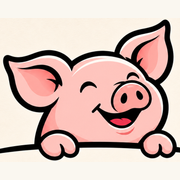
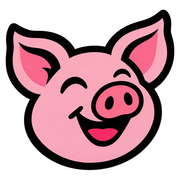
updations

diff --git a/src/app/page.tsx b/src/app/page.tsx
@@ -1,4 +1,5 @@
-import {ArrowDown,ArrowUpRight,ArrowRight,MapPin,Phone,MessageCircle,PiggyBank,Trees,MessagesSquare} from 'lucide-react';
+import {WhatsAppIcon} from '@/components/WhatsAppIcon';
+import {ArrowDown,ArrowUpRight,ArrowRight,MapPin,Phone,PiggyBank,Trees,MessagesSquare} from 'lucide-react';
 function Instagram(){return <svg viewBox="0 0 24 24" fill="none" stroke="currentColor" strokeWidth="1.6" aria-hidden="true"><rect x="3" y="3" width="18" height="18" rx="5"/><circle cx="12" cy="12" r="4"/><circle cx="17.5" cy="6.5" r=".8"/></svg>;}
 function Facebook(){return <svg viewBox="0 0 24 24" fill="none" stroke="currentColor" strokeWidth="1.6" aria-hidden="true"><path d="M15 3h-3a4 4 0 0 0-4 4v14m-3-10h11M8 11h5V7h3"/></svg>;}
 import {Navigation,ContactActions,Brand} from '@/components/Navigation';
@@ -7,7 +8,7 @@ import {Picture,type ImageName} from '@/components/Picture';
 import {Gallery} from '@/components/Gallery';
 import {FAQ} from '@/components/FAQ';
 import {navigation,site,SITE_URL} from '@/config/site';
-function WhatsApp({className='button'}:{className?:string}){return <a className={className} href={site.whatsapp} target="_blank" rel="noopener noreferrer"><MessageCircle size={19}/>Chat on WhatsApp<ArrowUpRight size={18}/></a>;}
+function WhatsApp({className='button'}:{className?:string}){return <a className={`${className} whatsapp-button`} href={site.whatsapp} target="_blank" rel="noopener noreferrer"><WhatsAppIcon size={19}/>Chat on WhatsApp<ArrowUpRight size={18}/></a>;}
 const farmBlocks=[{title:'Our Pigs',name:'farm-piglets',icon:PiggyBank,copy:'Pigs are at the heart of PorkHolic. To learn more about the pigs on our farm, speak with our team directly.'},{title:'Our Farm Environment',name:'farm-environment',icon:Trees,copy:'Our pig farm is based in Kombai, in the Theni region of Tamil Nadu. Connect with us to find out more about the farm and its setting.'},{title:'Farm Enquiries',name:'farm-detail',icon:MessagesSquare,copy:'Curious about PorkHolic or have a farm-related question? Call or message our team to start a conversation.'}] as const;
 export default function Home(){const socials=[site.instagram,site.facebook].filter(Boolean);const jsonLd={'@context':'https://schema.org','@type':'LocalBusiness',name:'PorkHolic',url:SITE_URL,telephone:[site.phone,site.phoneSecondary],address:{'@type':'PostalAddress',addressLocality:'Kombai',addressRegion:'Tamil Nadu',addressCountry:'IN'},...(socials.length?{sameAs:socials}:{})};return <><a className="skip-link" href="#main">Skip to content</a><Navigation/><main id="main"><section id="home" className="hero"><Picture name="hero-farm" alt="rural pig farm with coconut palms and distant mountain foothills" priority sizes="100vw" className="hero-image"/><div className="hero-shade"/><div className="container hero-content"><Reveal><p className="eyebrow light"><span/>WELCOME TO PORKHOLIC</p><h1>Rooted in Farming.<br/><em>Raised with Purpose.</em></h1><p className="hero-description">Discover PorkHolic, a pig farm based in<br className="desktop-break"/> Kombai, Theni, Tamil Nadu.</p><div className="button-row"><a href="#farm" className="button">Explore Our Farm<ArrowUpRight size={19}/></a><a href="#contact" className="button outline">Contact Our Farm<ArrowRight size={18}/></a></div></Reveal></div><div className="container hero-bottom"><a href="#about" className="scroll-cue"><span className="scroll-icon"><ArrowDown size={17}/></span> A little closer to farm life</a><span className="hero-place"><MapPin size={15}/> Kombai, Theni · Tamil Nadu</span></div></section>
 <section id="about" className="section about"><div className="container about-grid"><Reveal className="about-copy"><p className="eyebrow"><span/> A FARM. A PLACE. A PURPOSE.</p><h2>A Passion for<br/><em>Pig Farming.</em></h2><div className="short-rule"/><p>PorkHolic is a pig farm in Kombai, Theni, Tamil Nadu. Farming is at the centre of who we are, and this is a place to get to know our farm.</p><p>We welcome your questions about PorkHolic. For more information about the farm, reach out to our team by phone or WhatsApp.</p><a href="#contact" className="text-link">Get to know us<ArrowUpRight size={19}/></a></Reveal><Reveal className="about-visual" delay={.08}><Picture name="about-farm" alt="pink pigs in a naturally lit open-sided farm shelter" className="about-main"/><Picture name="farm-detail" alt="close-up of a pink pig beside a grain trough" className="about-detail"/><span className="image-stamp">PORKHOLIC<span>Rooted in<br/>Kombai, Theni.</span></span></Reveal></div></section>
@@ -16,5 +17,5 @@ export default function Home(){const socials=[site.instagram,site.facebook].filt
 <section id="gallery" className="section gallery"><div className="container"><Reveal className="section-heading"><div><p className="eyebrow"><span/> A DIFFERENT PERSPECTIVE</p><h2>Farm life,<br/><em>in focus.</em></h2></div><div><p>A space for glimpses of PorkHolic.</p></div></Reveal><Reveal><Gallery/></Reveal><div className="gallery-foot"><span>THE PORKHOLIC GALLERY</span><span>Take a closer look <ArrowUpRight size={16}/></span></div></div></section>
 <FAQ/>
 <section className="enquiry section"><div className="container"><Reveal><p className="eyebrow light"><span/> LET’S START A CONVERSATION</p><h2>Let&apos;s Connect<br/><em>with Our Farm.</em></h2><p>Have a question about PorkHolic?<br/>Get in touch with our team.</p><div className="button-row"><WhatsApp className="button ivory"/><a className="button outline" href={`tel:${site.phone}`}><Phone size={18}/>Call Now</a></div><div className="enquiry-numbers"><a href={`tel:${site.phone}`}>{site.phones[0]}</a><span aria-hidden="true">/</span><a href={`tel:${site.phoneSecondary}`}>{site.phones[1]}</a></div></Reveal><div className="enquiry-art" aria-hidden="true"><img src="/images/logo-transparent.webp" alt="" width="280" height="224" loading="lazy"/><span>PIG FARM<br/>KOMBAI, THENI</span></div></div></section>
-<section id="contact" className="section contact"><div className="container contact-grid"><Reveal><p className="eyebrow"><span/> WE’RE HERE TO CONNECT</p><h2>Find us in<br/><em>Kombai.</em></h2><p className="contact-intro">PorkHolic Pig Farm, Kombai,<br/>Theni, Tamil Nadu, India</p><div className="button-row"><WhatsApp/><a href={`tel:${site.phone}`} className="button outline dark-outline"><Phone size={18}/>Call the farm</a></div></Reveal><Reveal className="contact-details" delay={.08}><div className="contact-row"><Phone/><div><h3>Give us a call</h3><a href={`tel:${site.phone}`}>{site.phones[0]}</a><a href={`tel:${site.phoneSecondary}`}>{site.phones[1]}</a></div><ArrowUpRight size={19}/></div><div className="contact-row"><MessageCircle/><div><h3>Say hello on WhatsApp</h3><a href={site.whatsapp} target="_blank" rel="noopener noreferrer">Message our team</a></div><ArrowUpRight size={19}/></div><div className="contact-row"><MapPin/><div><h3>Kombai, Theni</h3><a href={site.maps} target="_blank" rel="noopener noreferrer">View Location</a><small>Area search, not an exact farm pin</small></div><ArrowUpRight size={19}/></div></Reveal></div></section></main>
-<footer className="footer"><div className="container footer-grid"><div><a href="#home" aria-label="PorkHolic home"><Brand/></a><p>A pig farm in Kombai, Theni.<br/>Rooted in farming. Raised with purpose.</p><div className="socials">{site.instagram&&<a href={site.instagram} aria-label="Instagram" target="_blank" rel="noopener noreferrer"><Instagram/></a>}{site.facebook&&<a href={site.facebook} aria-label="Facebook" target="_blank" rel="noopener noreferrer"><Facebook/></a>}<a href={site.whatsapp} aria-label="WhatsApp" target="_blank" rel="noopener noreferrer"><MessageCircle/></a><a href={`tel:${site.phone}`} aria-label="Call PorkHolic"><Phone/></a></div></div><nav aria-label="Footer navigation"><h3>Explore</h3>{navigation.map(([id,label])=><a key={id} href={`#${id}`}>{label}</a>)}</nav><div><h3>Visit & connect</h3><p>Kombai, Theni<br/>Tamil Nadu, India</p><a href={`tel:${site.phone}`}>{site.phones[0]}</a><a href={`tel:${site.phoneSecondary}`}>{site.phones[1]}</a></div></div><div className="container footer-bottom"><span>© {new Date().getFullYear()} PorkHolic. All rights reserved.</span><span>PIG FARM · TAMIL NADU, INDIA</span></div></footer><ContactActions/><script type="application/ld+json" dangerouslySetInnerHTML={{__html:JSON.stringify(jsonLd).replace(/</g,'\\u003c')}}/></>;}
+<section id="contact" className="section contact"><div className="container contact-grid"><Reveal><p className="eyebrow"><span/> WE’RE HERE TO CONNECT</p><h2>Find us in<br/><em>Kombai.</em></h2><p className="contact-intro">PorkHolic Pig Farm, Kombai,<br/>Theni, Tamil Nadu, India</p><div className="button-row"><WhatsApp/><a href={`tel:${site.phone}`} className="button outline dark-outline"><Phone size={18}/>Call the farm</a></div></Reveal><Reveal className="contact-details" delay={.08}><div className="contact-row"><Phone/><div><h3>Give us a call</h3><a href={`tel:${site.phone}`}>{site.phones[0]}</a><a href={`tel:${site.phoneSecondary}`}>{site.phones[1]}</a></div><ArrowUpRight size={19}/></div><div className="contact-row"><WhatsAppIcon/><div><h3>Say hello on WhatsApp</h3><a href={site.whatsapp} target="_blank" rel="noopener noreferrer">Message our team</a></div><ArrowUpRight size={19}/></div><div className="contact-row"><MapPin/><div><h3>Kombai, Theni</h3><a href={site.maps} target="_blank" rel="noopener noreferrer">View Location</a></div><ArrowUpRight size={19}/></div></Reveal></div></section></main>
+<footer className="footer"><div className="container footer-grid"><div><a href="#home" aria-label="PorkHolic home"><Brand/></a><p>A pig farm in Kombai, Theni.<br/>Rooted in farming. Raised with purpose.</p><div className="socials">{site.instagram&&<a href={site.instagram} aria-label="Instagram" target="_blank" rel="noopener noreferrer"><Instagram/></a>}{site.facebook&&<a href={site.facebook} aria-label="Facebook" target="_blank" rel="noopener noreferrer"><Facebook/></a>}<a href={site.whatsapp} className="whatsapp-social" aria-label="WhatsApp" target="_blank" rel="noopener noreferrer"><WhatsAppIcon/></a><a href={`tel:${site.phone}`} aria-label="Call PorkHolic"><Phone/></a></div></div><nav aria-label="Footer navigation"><h3>Explore</h3>{navigation.map(([id,label])=><a key={id} href={`#${id}`}>{label}</a>)}</nav><div><h3>Visit & connect</h3><p>Kombai, Theni<br/>Tamil Nadu, India</p><a href={`tel:${site.phone}`}>{site.phones[0]}</a><a href={`tel:${site.phoneSecondary}`}>{site.phones[1]}</a></div></div><div className="container footer-bottom"><span>© {new Date().getFullYear()} PorkHolic. All rights reserved.</span><span>PIG FARM · TAMIL NADU, INDIA</span></div></footer><ContactActions/><script type="application/ld+json" dangerouslySetInnerHTML={{__html:JSON.stringify(jsonLd).replace(/</g,'\\u003c')}}/></>;}

diff --git a/src/components/Navigation.tsx b/src/components/Navigation.tsx
@@ -1,6 +1,7 @@
 'use client';
+import {WhatsAppIcon} from './WhatsAppIcon';
 import {useEffect,useRef,useState} from 'react';
-import {Menu,X,Phone,MessageCircle} from 'lucide-react';
+import {Menu,X,Phone} from 'lucide-react';
 import {navigation,site} from '@/config/site';
 import {trapDialogFocus} from './dialog-focus';
 export function Brand(){return <span className="brand"><img src="/images/logo-transparent.webp" width="180" height="150" alt="PorkHolic Pork Farm" loading="lazy" decoding="async"/><img className="brand-lettering" src="/images/logo-transparent.webp" width="180" height="150" alt="" aria-hidden="true" loading="lazy" decoding="async"/>{['left','middle','right'].map(part=><img key={part} className={`brand-rule brand-rule-${part}`} src="/images/logo-transparent.webp" width="180" height="150" alt="" aria-hidden="true" loading="lazy" decoding="async"/>)}</span>;}
@@ -11,4 +12,4 @@ export function Navigation(){
  const close=()=>{dialog.current?.close();setOpen(false);toggle.current?.focus();};
  return <><header className={`header ${scrolled?'scrolled':''}`}><div className="container nav-inner"><a href="#home" aria-label="PorkHolic home"><Brand/></a><nav aria-label="Main navigation" className="desktop-nav">{navigation.map(([id,label])=><a key={id} href={`#${id}`} aria-current={active===id?'location':undefined}>{label}</a>)}</nav><a href="#contact" className="button nav-cta">Contact <span aria-hidden="true">↗</span></a><button ref={toggle} className="menu-toggle icon-button" aria-label="Open navigation" aria-controls="mobile-menu" aria-expanded={open} onClick={()=>{dialog.current?.showModal();setOpen(true);}}><Menu/></button></div></header><dialog ref={dialog} id="mobile-menu" className="mobile-menu" aria-label="Main navigation" onClose={()=>{setOpen(false);toggle.current?.focus();}} onCancel={close} onKeyDown={trapDialogFocus}><div className="menu-top"><Brand/><button className="icon-button" onClick={close} aria-label="Close navigation"><X/></button></div><nav aria-label="Mobile navigation">{navigation.map(([id,label],i)=><a key={id} href={`#${id}`} style={{animationDelay:`${i*75}ms`}} onClick={close}><span>0{i+1}</span>{label}<span aria-hidden="true">↗</span></a>)}</nav><p>Kombai, Theni<br/>Tamil Nadu, India</p></dialog></>;
 }
-export function ContactActions(){return <aside className="quick-actions" aria-label="Quick contact"><a href={site.whatsapp} target="_blank" rel="noopener noreferrer" className="button whatsapp" aria-label="Chat with PorkHolic on WhatsApp"><MessageCircle size={20}/><span>WhatsApp</span></a><a className="button call" href={`tel:${site.phone}`}><Phone size={18}/><span>Call</span></a></aside>;}
+export function ContactActions(){return <aside className="quick-actions" aria-label="Quick contact"><a href={site.whatsapp} target="_blank" rel="noopener noreferrer" className="button whatsapp" aria-label="Chat with PorkHolic on WhatsApp"><WhatsAppIcon size={20}/><span>WhatsApp</span></a><a className="button call" href={`tel:${site.phone}`}><Phone size={18}/><span>Call</span></a></aside>;}

diff --git a/src/styles/globals.css b/src/styles/globals.css
@@ -101,4 +101,17 @@ html{scroll-padding-top:calc(var(--nav-height) + 16px)}
 .faq-answer{padding:0 72px 24px 55px}
 .faq-answer p{font-size:14px;line-height:1.8}
 @media(max-width:767px){.faq-layout{grid-template-columns:1fr;gap:32px}.faq-intro h2{font-size:38px}.faq-intro>p:not(.eyebrow){margin-top:20px}.faq-item{border-radius:16px}.faq-item summary{min-height:76px;padding:18px 16px;gap:12px}.faq-item h3{font-size:14px}.faq-toggle{width:30px;height:30px}.faq-answer{padding:0 20px 22px 42px}.faq-answer p{font-size:14px}}
+.hero .button-row>.button:first-child{background:#faf0dd;color:#263d2c;border-color:#faf0dd}
+.hero .button-row>.button:first-child:hover{background:#eadcc2;border-color:#eadcc2}
+.whatsapp-icon{flex-shrink:0}
+.button.whatsapp-button,.quick-actions .button.whatsapp,.socials .whatsapp-social{background:#128c46;color:#fff;border-color:#128c46}
+.button.whatsapp-button:hover,.quick-actions .button.whatsapp:hover,.socials .whatsapp-social:hover{background:#0b7037;border-color:#0b7037}
+.faq-intro .whatsapp-link{color:#11763d;border-color:#11763d;gap:10px}
+.contact-row>.whatsapp-icon{color:#128c46}
+@media(max-width:767px){
+ .hero .button-row{display:grid;grid-template-columns:repeat(2,minmax(0,1fr));gap:10px;width:100%;max-width:430px;align-items:stretch}
+ .hero .button-row .button{min-width:0;width:100%;min-height:50px;padding:12px 10px;font-size:11px;gap:6px;justify-content:center;white-space:nowrap}
+ .hero .button-row .button svg{width:15px;height:15px;flex-shrink:0}
+}
+@media(max-width:359px){.hero .button-row{gap:8px}.hero .button-row .button{font-size:10px;padding-inline:8px;gap:4px}.hero .button-row .button svg{width:13px;height:13px}}
 @media(prefers-reduced-motion:reduce){html{scroll-behavior:auto}*,*:before,*:after{animation:none!important;transition:none!important}.immersive>.picture{transform:none!important}}

diff --git a/src/components/WhatsAppIcon.tsx b/src/components/WhatsAppIcon.tsx
@@ -1,0 +1,3 @@
+export function WhatsAppIcon({size=20,className=''}:{size?:number;className?:string}) {
+ return <svg className={`whatsapp-icon ${className}`} width={size} height={size} viewBox="0 0 24 24" fill="currentColor" aria-hidden="true" focusable="false"><path d="M17.472 14.382c-.297-.149-1.758-.867-2.03-.967-.273-.099-.471-.148-.67.15-.198.297-.767.966-.94 1.164-.174.199-.347.223-.644.075-.297-.149-1.255-.463-2.39-1.475-.883-.788-1.48-1.761-1.654-2.059-.173-.297-.018-.458.13-.606.134-.133.298-.347.446-.52.149-.174.198-.298.297-.496.1-.198.05-.372-.025-.52-.074-.149-.668-1.612-.916-2.207-.241-.579-.487-.5-.67-.51-.173-.008-.371-.01-.57-.01-.198 0-.52.074-.792.372-.272.297-1.04 1.016-1.04 2.479 0 1.462 1.065 2.875 1.213 3.074.149.198 2.096 3.2 5.077 4.487.709.306 1.262.489 1.694.625.712.226 1.36.194 1.872.118.571-.085 1.758-.719 2.006-1.413.248-.694.248-1.289.173-1.413-.074-.124-.272-.198-.57-.347M12.05 21.785h-.004a9.87 9.87 0 0 1-5.031-1.378l-.361-.214-3.741.982.998-3.648-.235-.374a9.86 9.86 0 0 1-1.51-5.26c.001-5.45 4.436-9.884 9.888-9.884a9.825 9.825 0 0 1 7.021 2.91 9.825 9.825 0 0 1 2.9 7.025c-.003 5.45-4.437 9.884-9.925 9.841m8.413-18.404A11.815 11.815 0 0 0 12.05 0C5.495 0 .16 5.335.157 11.892a11.863 11.863 0 0 0 1.588 5.948L.057 24l6.304-1.654a11.882 11.882 0 0 0 5.683 1.448h.005c6.555 0 11.89-5.335 11.893-11.893a11.821 11.821 0 0 0-3.48-8.52Z"/></svg>;
+}

diff --git a/src/components/FAQ.tsx b/src/components/FAQ.tsx
@@ -1,3 +1,4 @@
+import {WhatsAppIcon} from './WhatsAppIcon';
 import {ArrowUpRight, Plus} from 'lucide-react';
 import {site} from '@/config/site';
 
@@ -15,7 +16,7 @@ export function FAQ() {
         <p className="eyebrow"><span/> A FEW THINGS TO KNOW</p>
         <h2 id="faq-heading">Good questions.<br/><em>Simple answers.</em></h2>
         <p>A little more about the farm.<br/>For anything else, we&apos;re a message away.</p>
-        <a className="text-link" href={site.whatsapp} target="_blank" rel="noopener noreferrer">Ask us on WhatsApp<ArrowUpRight size={18}/></a>
+        <a className="text-link whatsapp-link" href={site.whatsapp} target="_blank" rel="noopener noreferrer"><WhatsAppIcon size={18}/>Ask us on WhatsApp<ArrowUpRight size={18}/></a>
       </div>
       <div className="faq-list">
         {questions.map(({question, answer}, index) => <details key={question} name="farm-faq" className="faq-item">

diff --git a/src/config/site.ts b/src/config/site.ts
@@ -5,6 +5,6 @@ export const site = {
  phones: ['+91 89439 58007', '+91 70126 13992'],
  whatsapp: 'https://wa.me/918943958007?text=' + encodeURIComponent('Hello PorkHolic, I would like to know more about your pig farm in Kombai, Theni.'),
  instagram: '', facebook: '',
- maps: 'https://www.google.com/maps/search/?api=1&query=Kombai%2C%20Theni%2C%20Tamil%20Nadu',
+ maps: 'https://maps.app.goo.gl/peX2UPpzYLKWbSUj9',
 };
 export const navigation = [['home','Home'],['about','About'],['farm','Our Farm'],['gallery','Gallery'],['contact','Contact']] as const;

diff --git a/README.md b/README.md
@@ -14,7 +14,7 @@ Open http://localhost:3000. `npm run build` produces the deployable `out/` direc
 
 ## Images
 
-The navbar, mobile menu and footer use the complete supplied logo artwork, with no separate typed brand name. The latest original is preserved in `_assets/logo-supplied.png`; transparent logo variants are used from `public/images/logo-transparent.webp`. CSS changes only the black wordmark and descriptor to white on dark backgrounds, retaining the red wordmark and pink mascot. The mascot crop is used for small application icons.
+The navbar, mobile menu and footer use the complete supplied logo artwork, with no separate typed brand name. The latest original is preserved in `_assets/logo-supplied.png`; transparent logo variants are used from `public/images/logo-transparent.webp`. CSS changes only the black wordmark and descriptor to white on dark backgrounds, retaining the red wordmark and pink mascot. Browser and application icons use a simplified pig-face asset for clarity at small sizes. Its source and generation details are in `_assets/FAVICON-PROMPT.md`.
 
 All five farm images are photorealistic AI-generated visuals, not photographs of PorkHolic. Originals live in `_assets/`, with responsive WebP versions in `public/images/`. Generation details and prompts are recorded in `_assets/IMAGE-PROMPTS.md`.
 

diff --git a/_assets/FAVICON-PROMPT.md b/_assets/FAVICON-PROMPT.md
@@ -1,0 +1,7 @@
+# Browser icon
+
+Generated using built-in image_gen with the transparent PorkHolic logo as a reference. Master: `_assets/favicon-pig.png`. Production assets: `src/app/favicon.ico` (16, 32, 48, 64px frames), `src/app/icon.png` (192px), `src/app/apple-icon.png` (180px), and `public/favicon-32.png`. Regenerate using `node scripts/generate-favicon.mjs`, also invoked by `npm run images`.
+
+Prompt:
+
+Use case: logo-brand. Create a browser favicon derived from the reference PorkHolic pig mascot. Render ONLY a simplified close-up of the same cheerful pink pig HEAD with its two ears, closed happy crescent eyes, tilted oval pink snout with two black nostrils, and smiling black mouth. Retain the familiar pig's pink color and strong black outlines. Square icon composition, face fills almost the entire square with about 5 percent even transparent margin and both ears entirely inside the image. Simplify shading to flat pink fills and at most one darker pink accent, thicker clean bold black contours for perfect legibility at 16x16 and 32x32 pixels. No paws, no body, no curved baseline, no lettering or words, no registration symbol, no logo text, no decorative elements, no gradients, no shadow. Genuinely transparent background. Clean professional icon asset, not a photograph.
